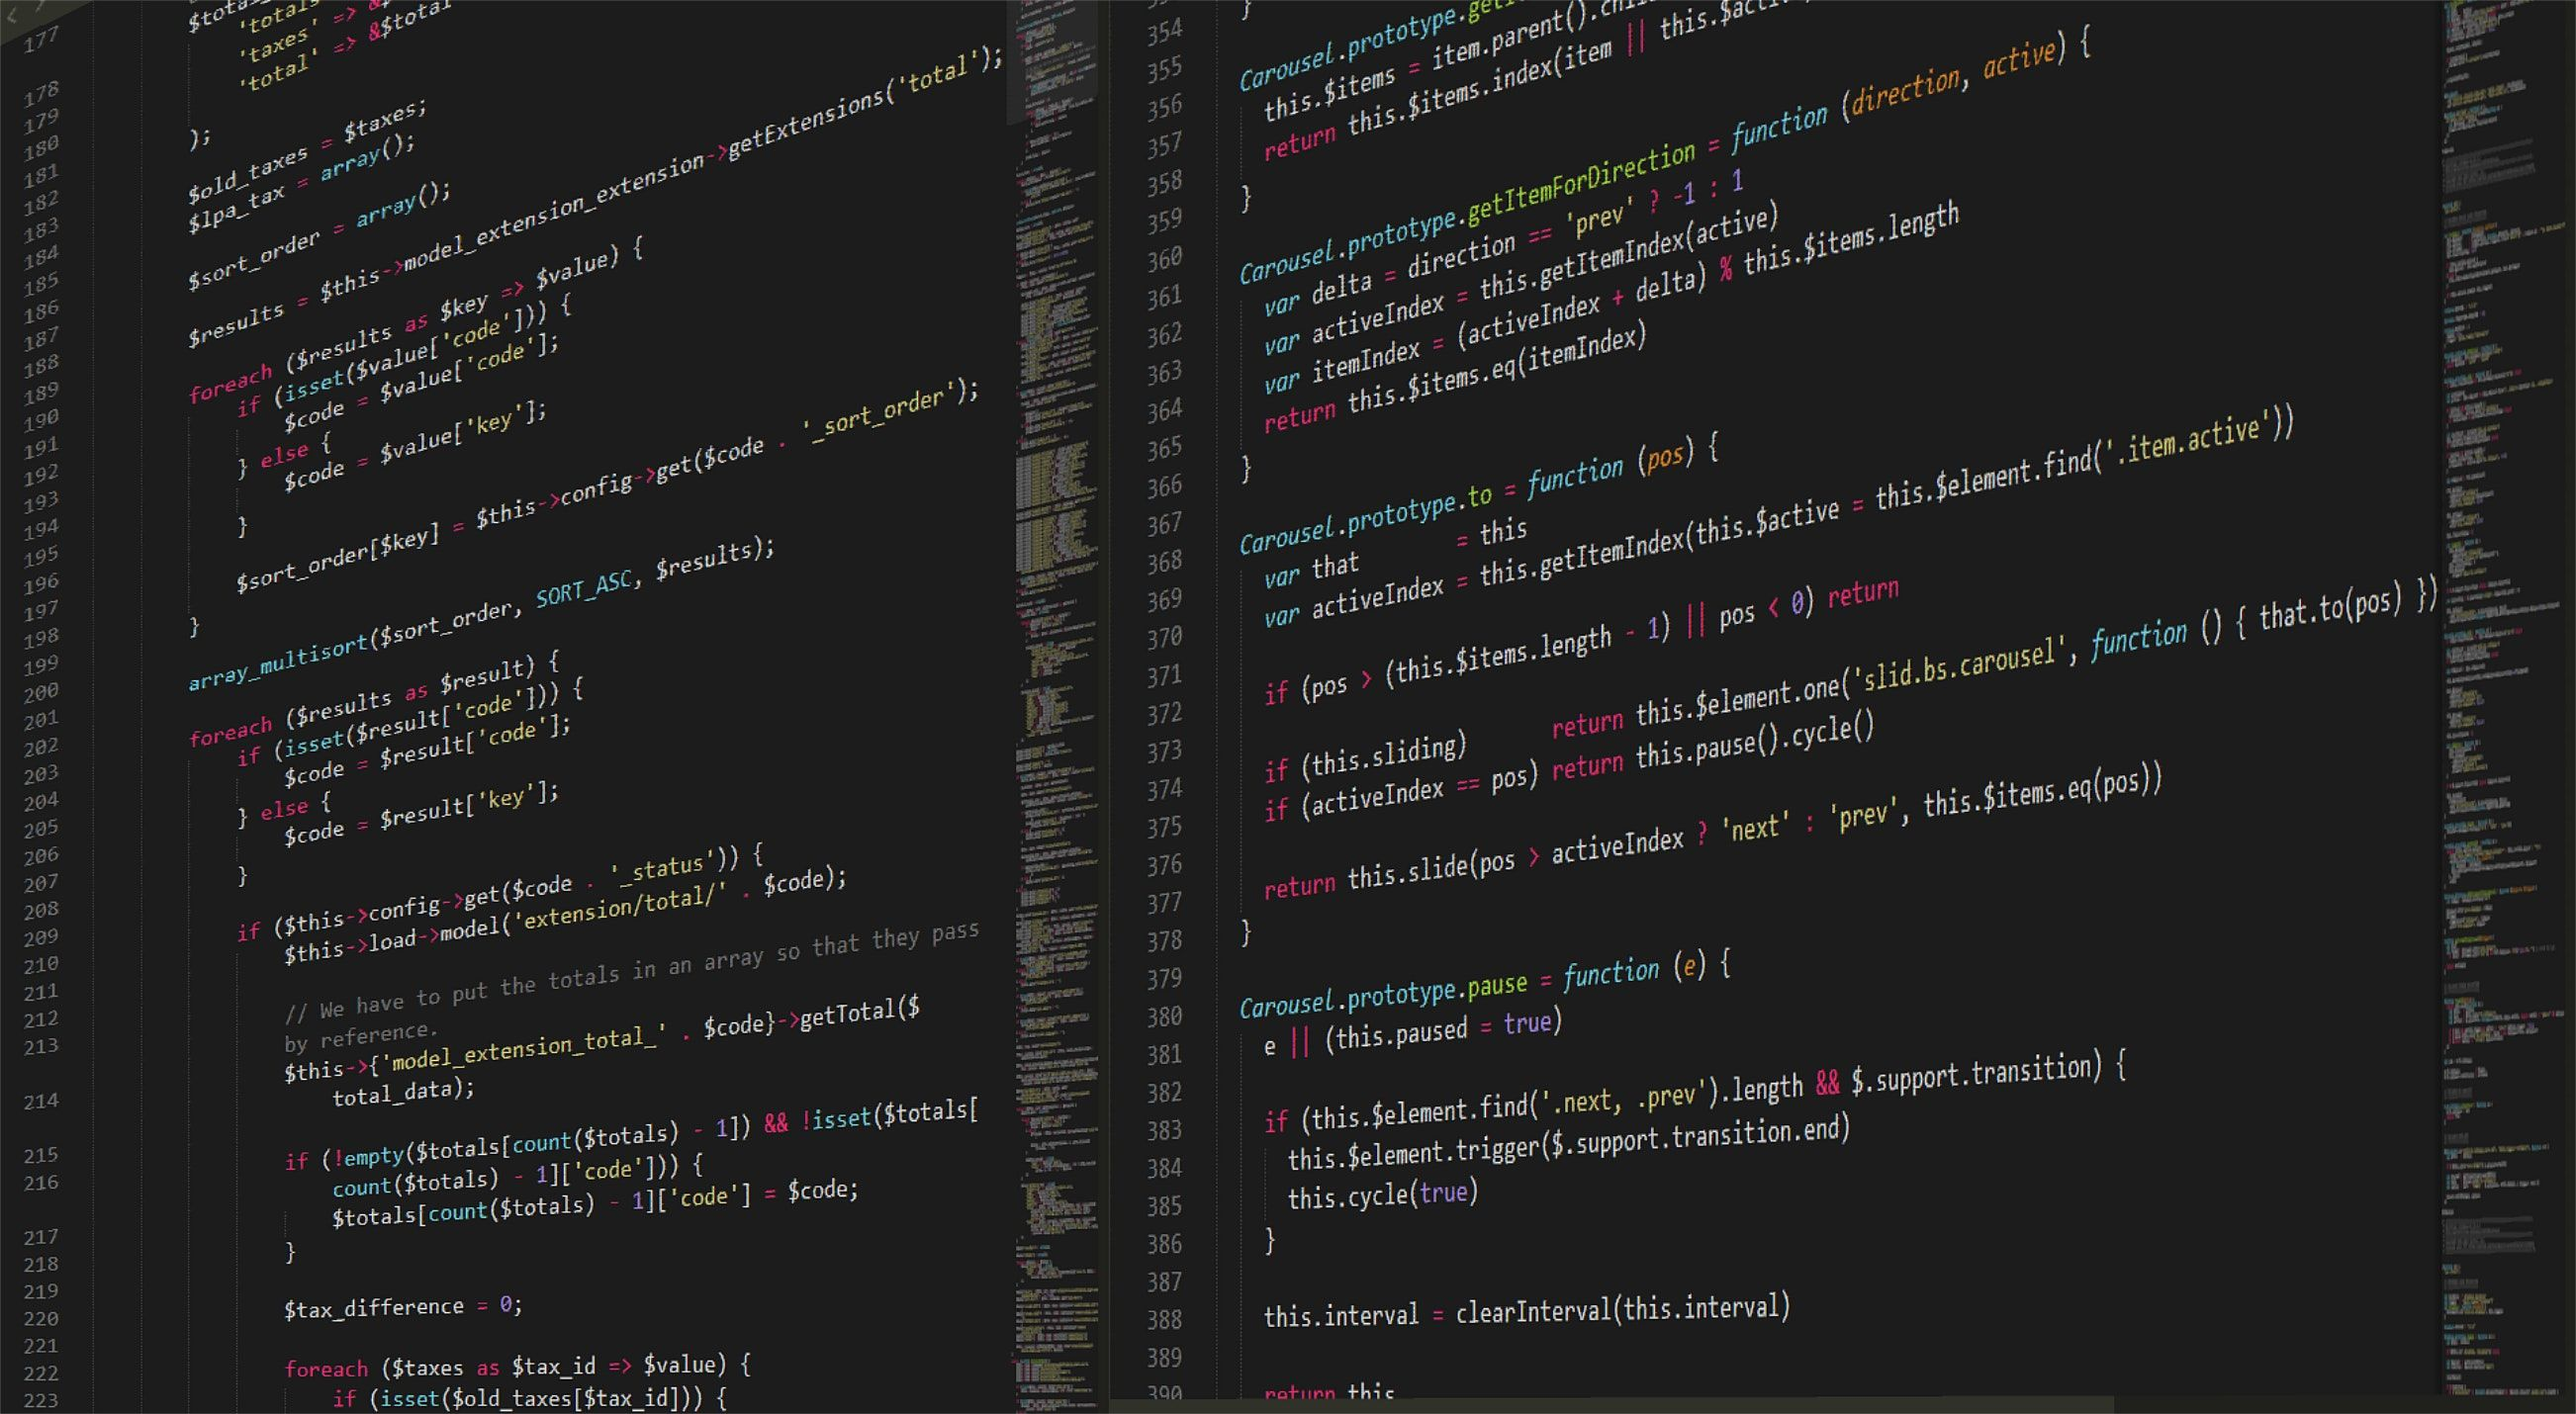
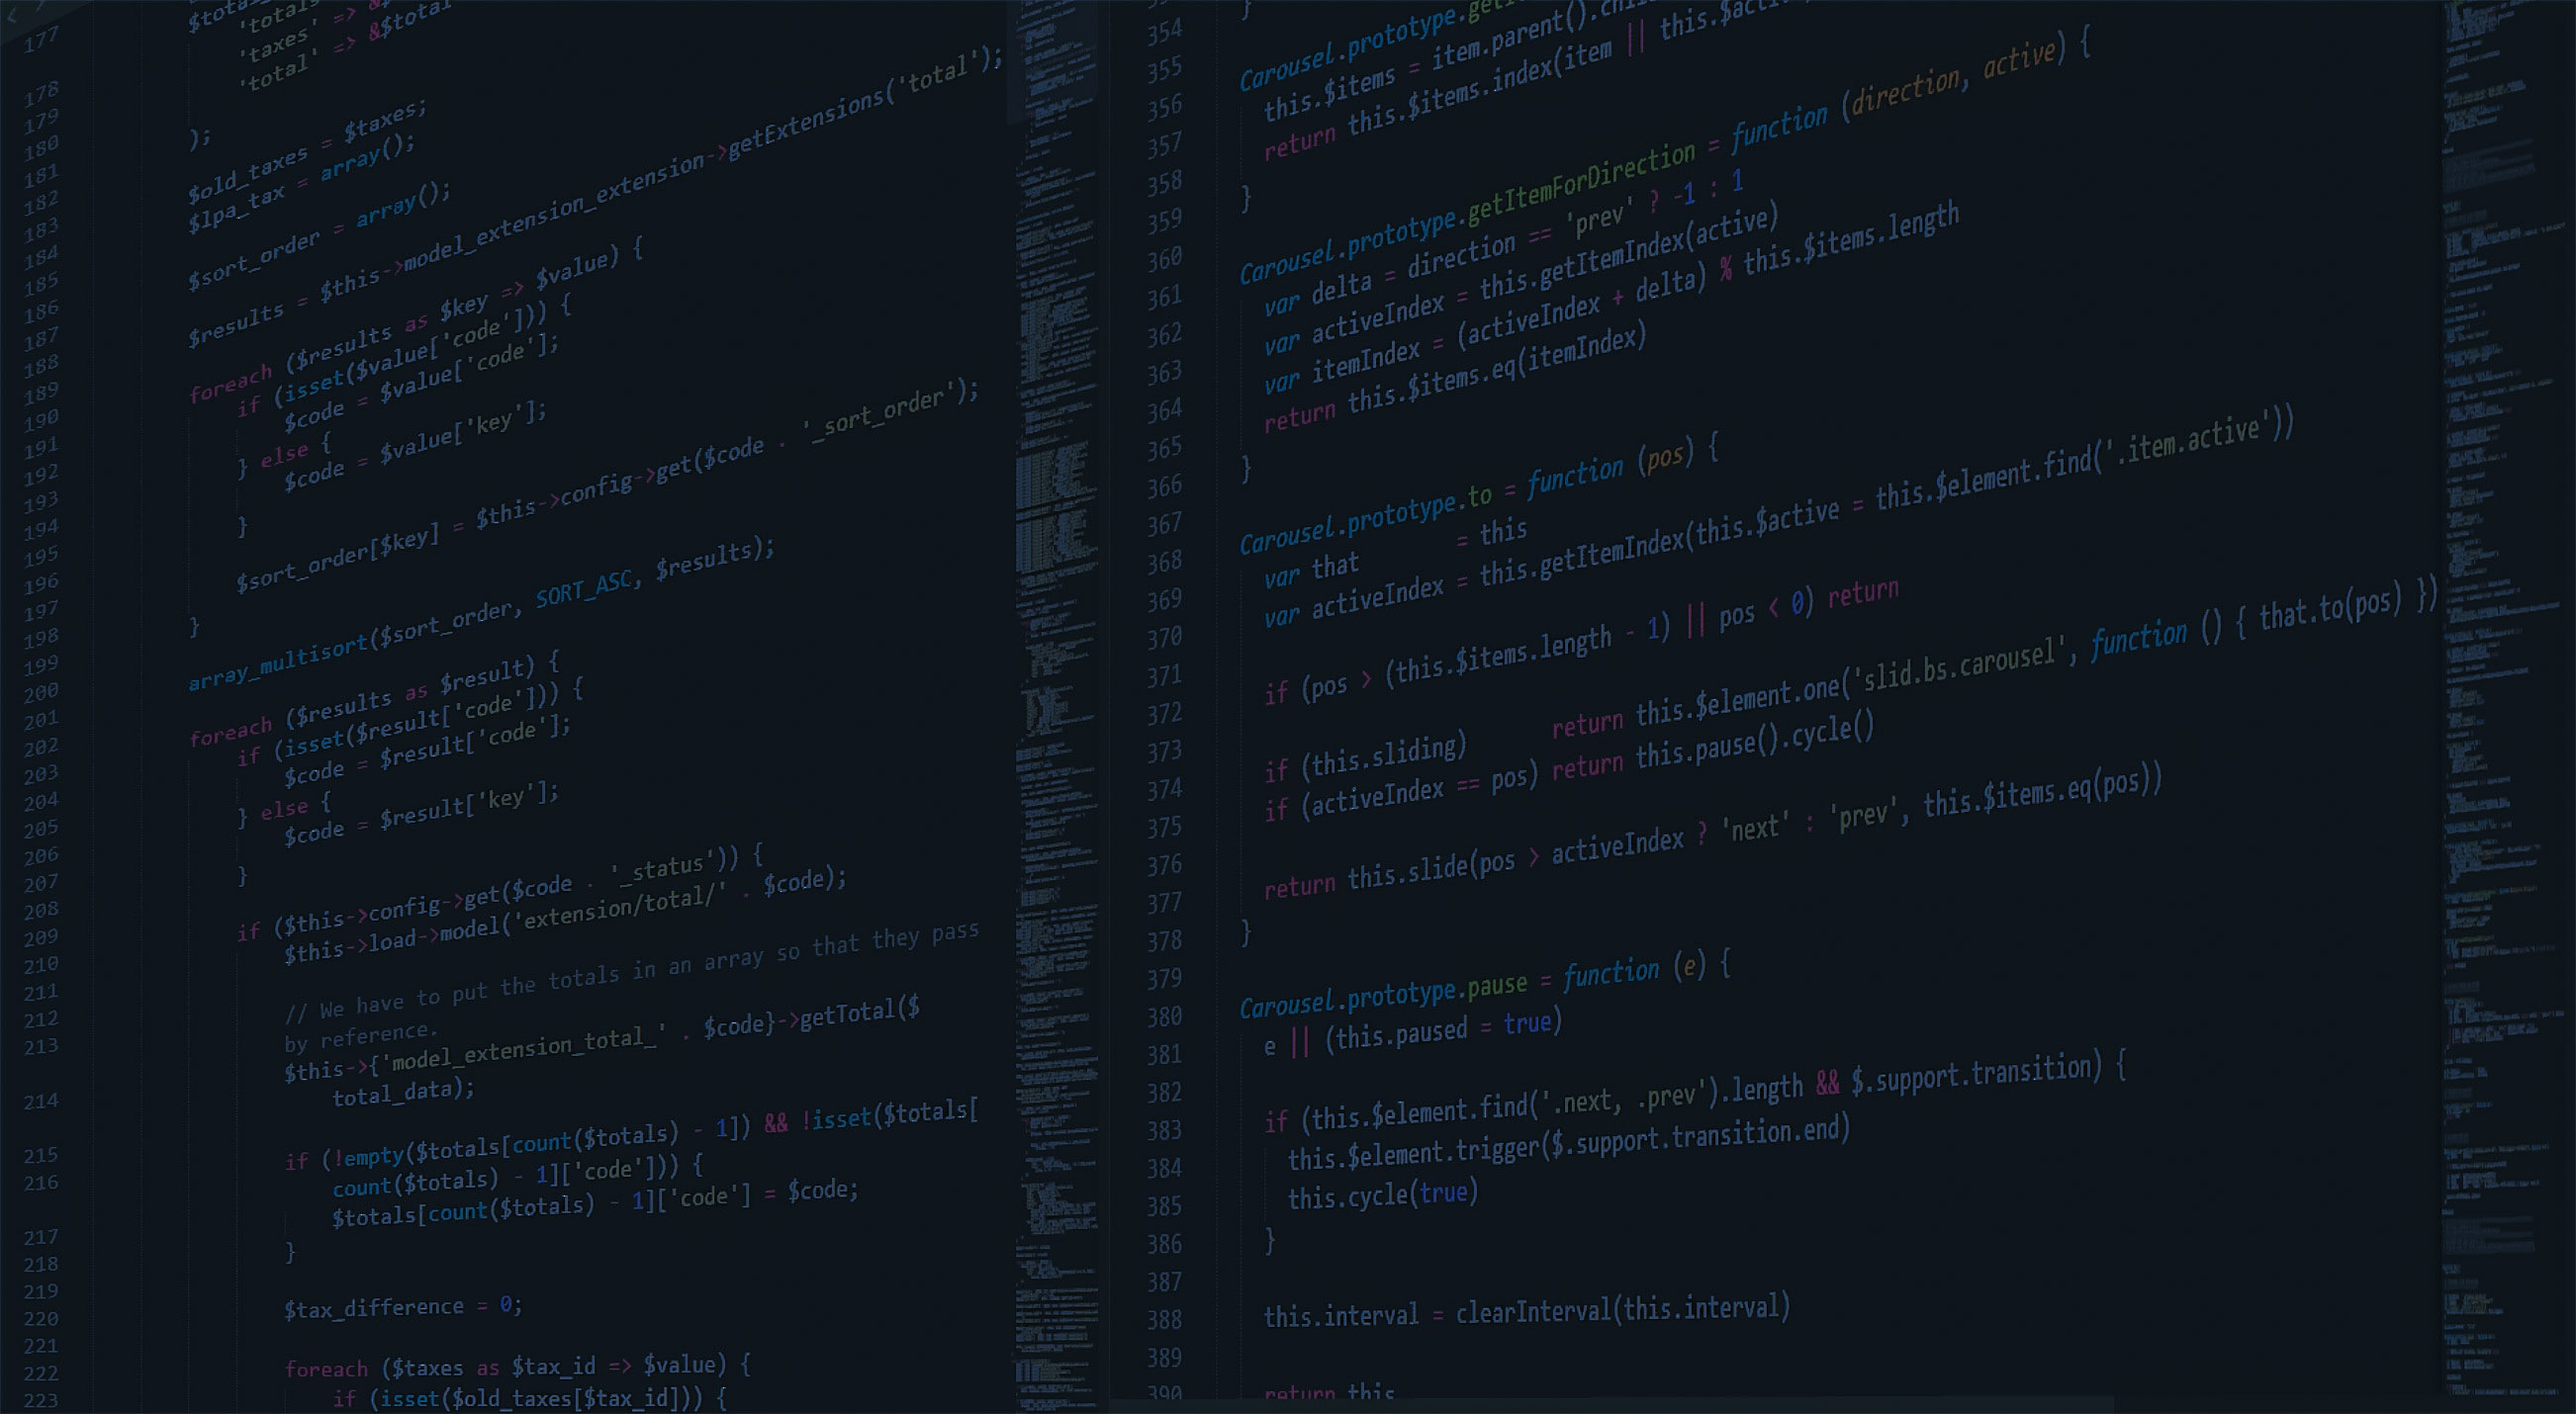
update background

diff --git a/index.html b/index.html
@@ -15,7 +15,7 @@
     crossorigin="anonymous"></script>
 </head>
 
-<body style="background-attachment: fixed ;">
+<body class="background">
   <header>
     <nav class="navbar navbar-expand-lg bg-primary ">
       <div class="container-fluid">
@@ -55,9 +55,7 @@
     </nav>
   </header>
 
-  <section class="background">
-    <section class="corpo">
-
+  <section class="corpo" style="height: 100%; width: 100%;">
       <!-- Titulo -->
       <div class="d-flex justify-content-center">
         <h2 class="text-light">Habilidades</h2>
@@ -124,7 +122,7 @@
       </div>
 
 
-    </section>
+
   </section>
 </body>
 

diff --git a/css/style.css b/css/style.css
@@ -1,15 +1,11 @@
+
+
 .background {
     background-image: url(../imagens/bg-programin.jpg);
     background-repeat: no-repeat;
     background-attachment: fixed;
-
 }
 
-.corpo {
-    width: 100%;
-    height: 80em;
-    background-color: rgba(0, 21, 54, 0.574);
-}
 
 .fade-in-left {
     -webkit-animation: fade-in-left 1s cubic-bezier(.39, .575, .565, 1.000) both;
@@ -66,4 +62,8 @@
 -ms-transform: scale(1.1); /* IE 9 */
 -webkit-transform: scale(1.1); /* Safari 3-8 */
 transform: scale(1.1); 
+}
+
+.card{
+    margin-top: 10px;
 }
